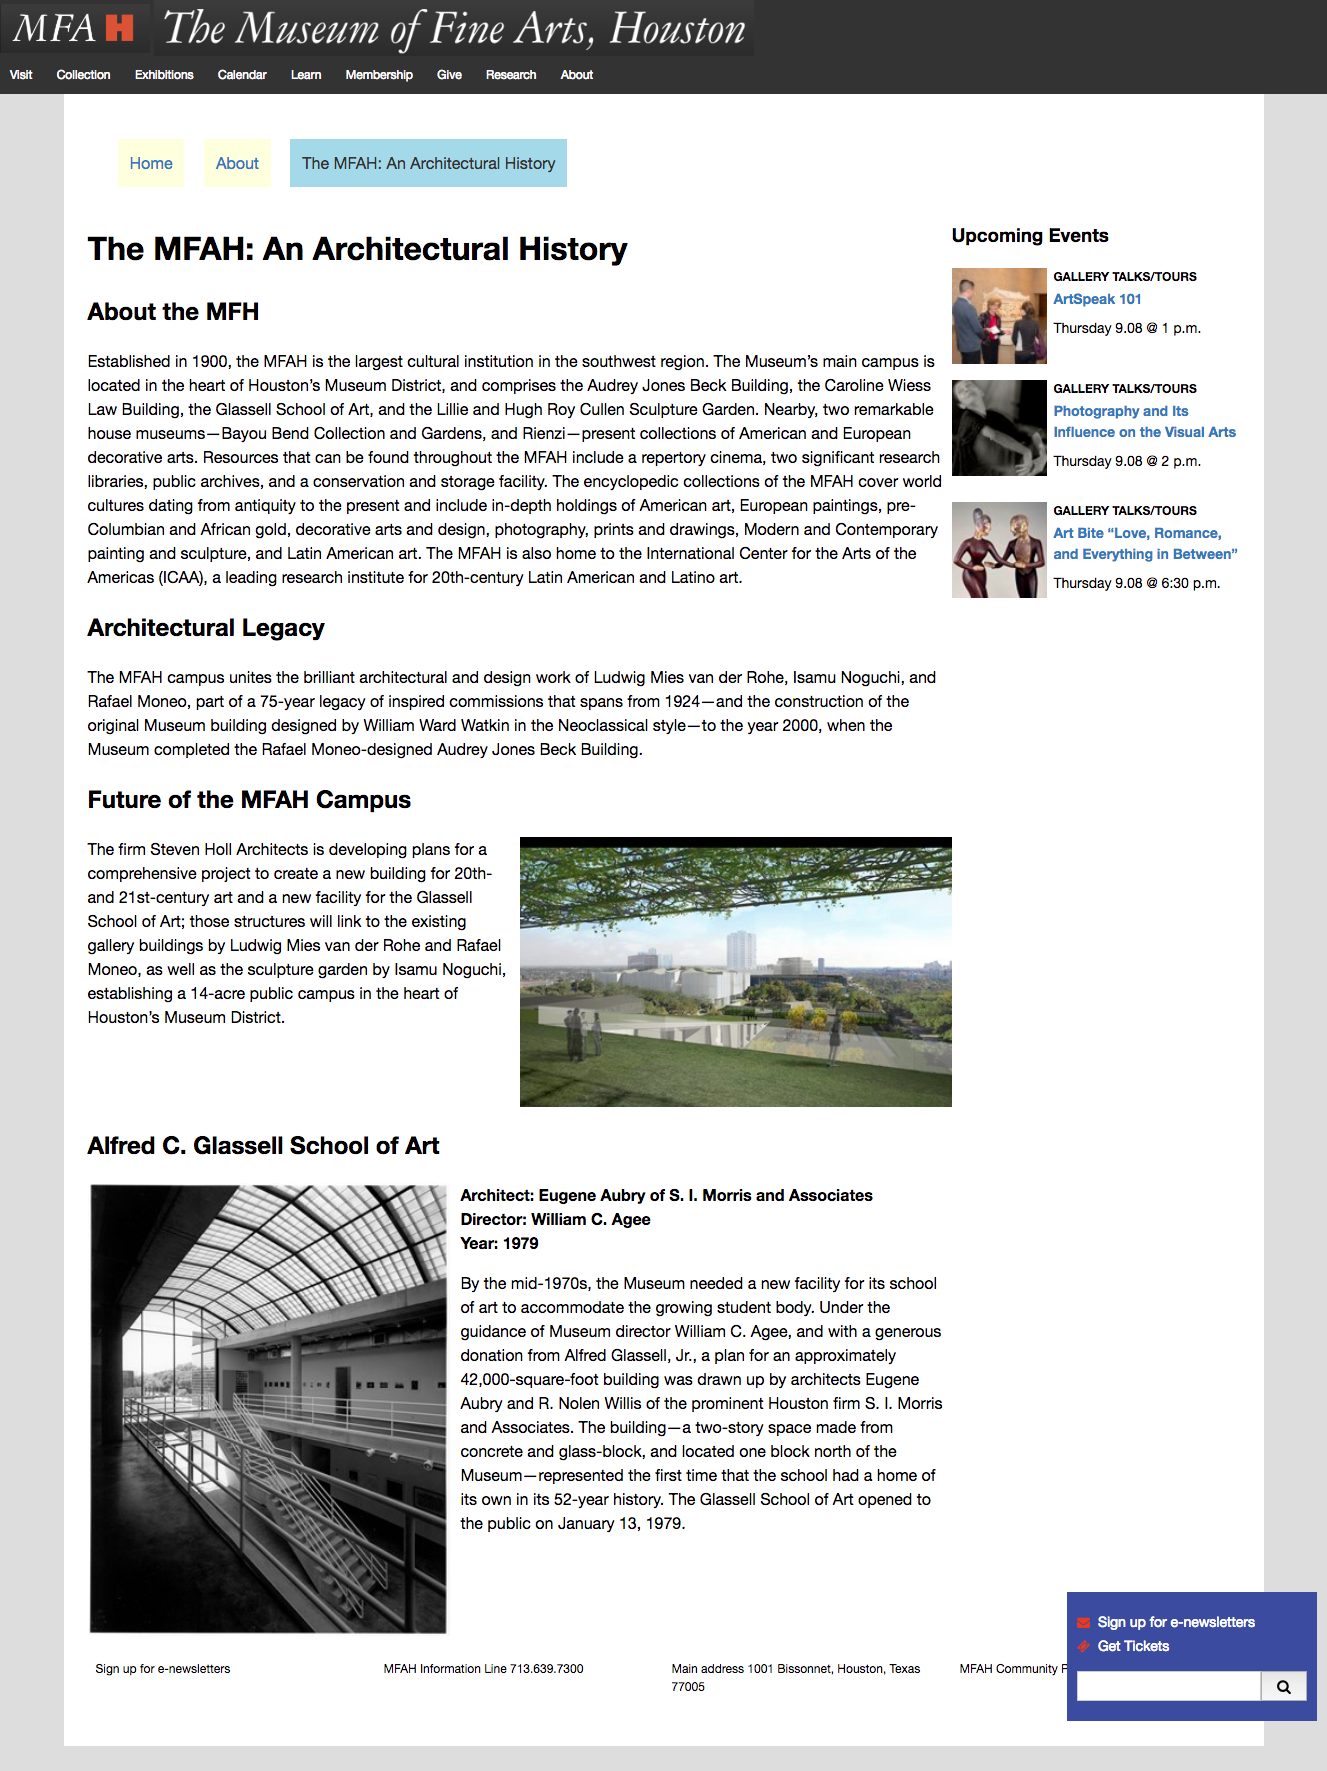
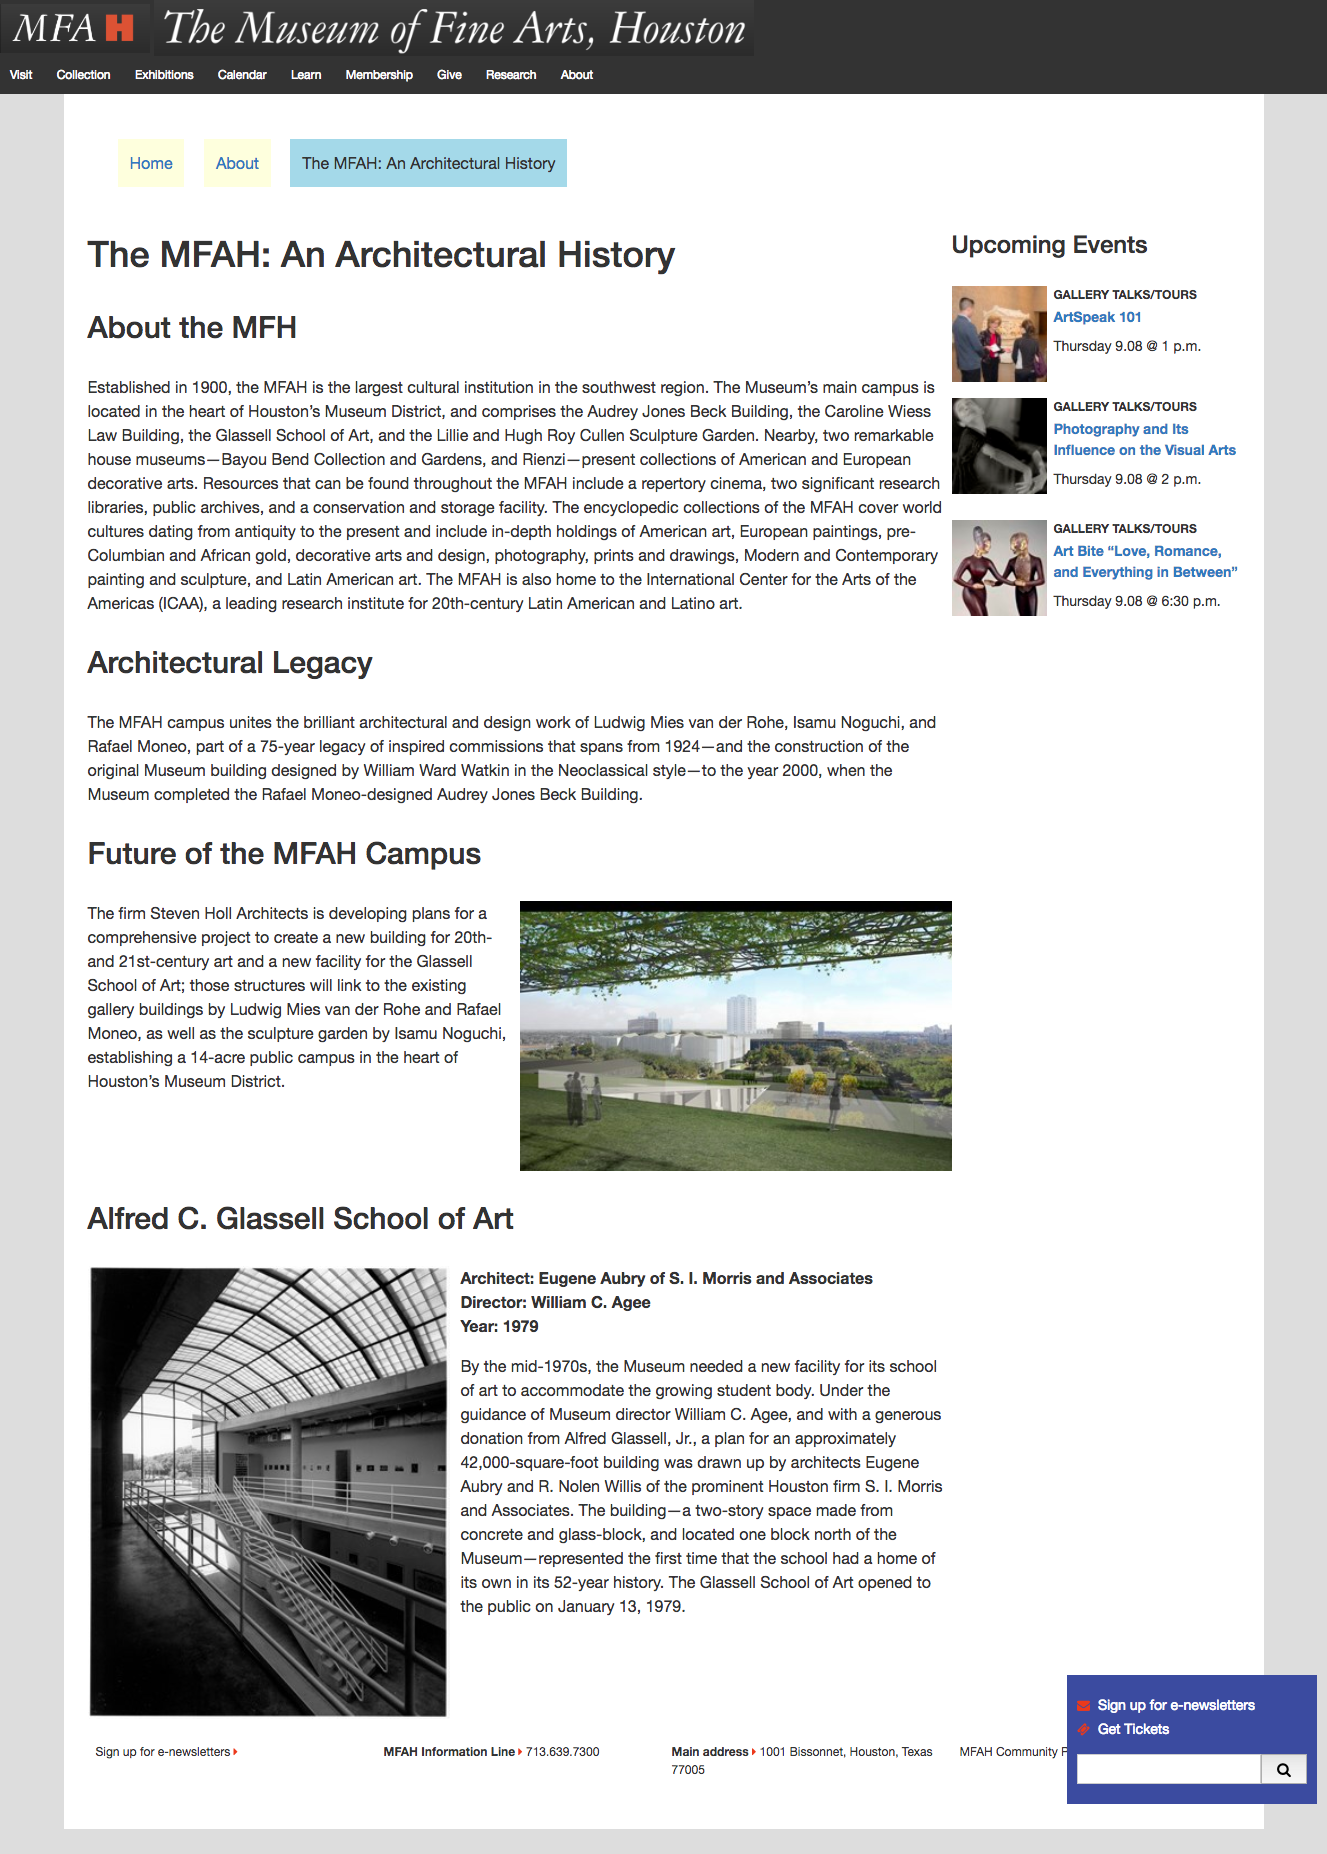
updating designer specs

Changed region(s): [[0.0, 0.0, 0.9269, 0.9627], [0.4943, 0.9006, 0.9887, 0.9627], [0.4635, 0.0, 0.5561, 0.0311]]

diff --git a/README.md b/README.md
@@ -91,11 +91,19 @@ Fonts
 --------
 Helvetica Neue, Helvetica, sans-serif
 
+Header Size
+--------
+h1 - 36px
+h2 - 30px
+h3 - 40px
 
 Colors
 --------------
+Font Color
+  #333333
+
 Anchor tag color
-  #3E7FBB.
+  #3E7FBB
 
 Blue fixed call-to-action component on bottom-right has background-color:
   #3A539B
